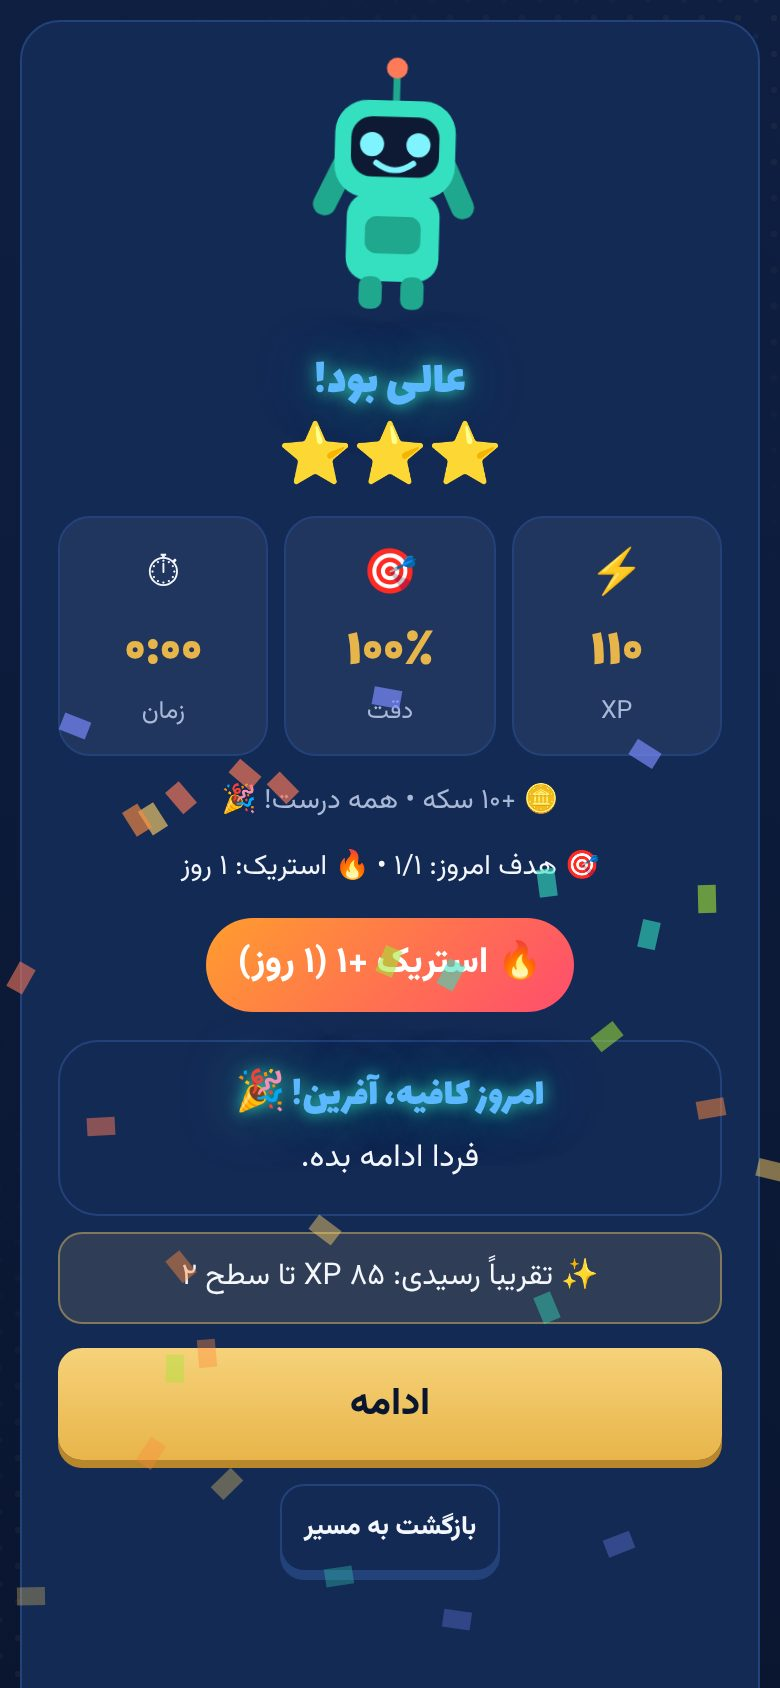
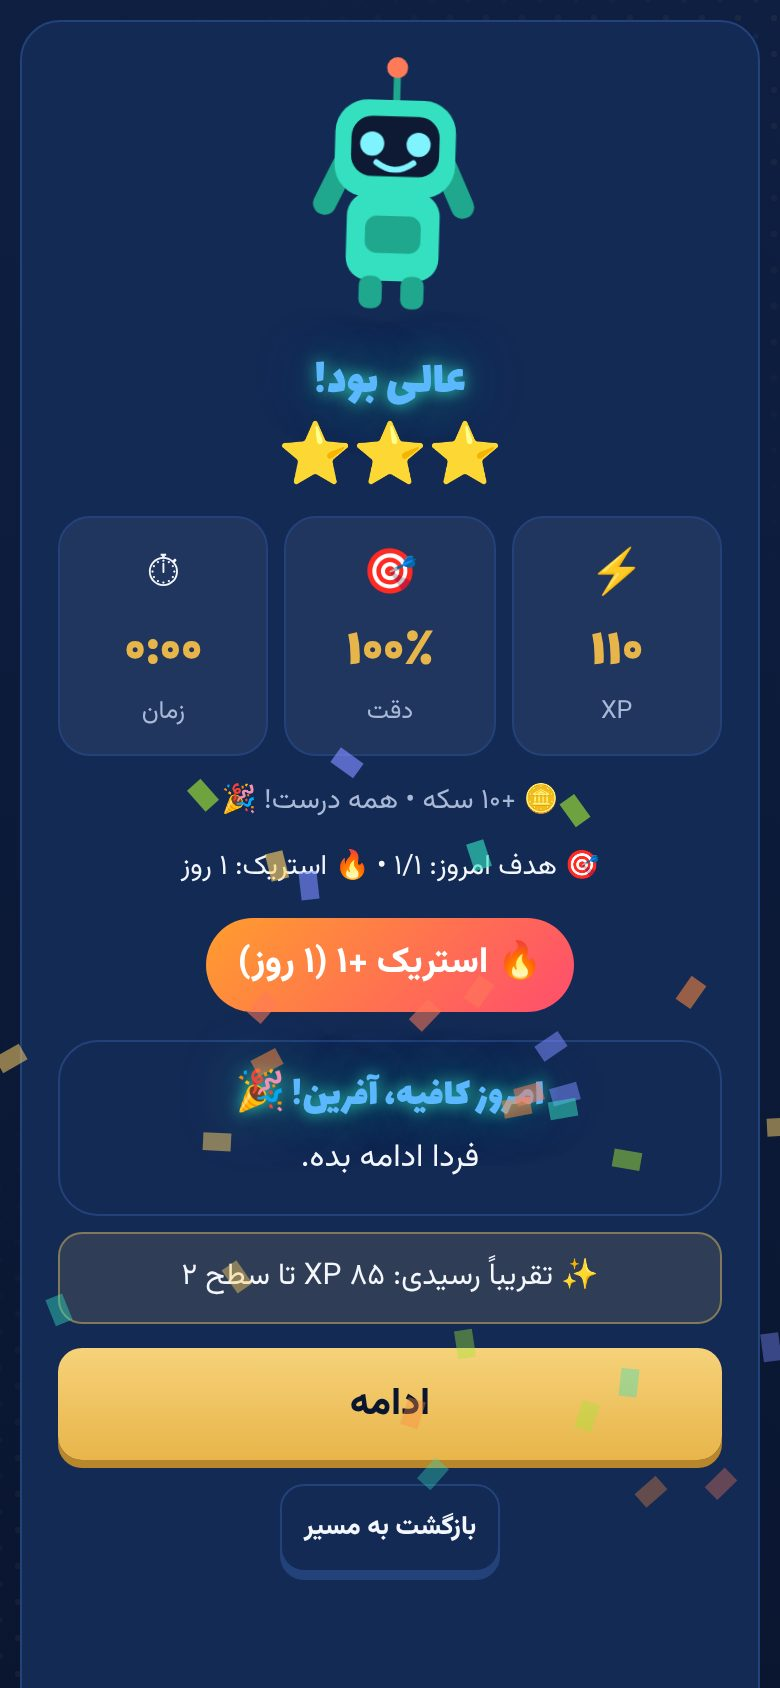
riazi-land: ui P0-4 — empty 5th option, toast above nav, full-height lesson card, shop emoji (grapheme split), credits moved to profile «درباره», nav tab, uniform radii
Claude-Session: https://claude.ai/code/session_01VDPptadfr94w4emVaDL2Bd

diff --git a/riazi-land/index.html b/riazi-land/index.html
@@ -2661,12 +2661,12 @@ r.insertAdjacentHTML('afterbegin','<div class="stk"><span>🧮</span><span>🚀<
 #bnav button i{font-style:normal;font-size:22px;line-height:1.2}
 #bnav button[aria-current=page]{color:var(--cy);background:rgba(52,224,192,.12);box-shadow:inset 0 -3px 0 var(--cy)}
 body[data-scr="reg"] #bnav,body[data-scr="game"] #bnav,body[data-scr="run"] #bnav,body[data-scr="gm"] #bnav,body[data-scr="sg"] #bnav{display:none}
-#app{padding-bottom:calc(84px + env(safe-area-inset-bottom))}
-#toast{bottom:calc(84px + env(safe-area-inset-bottom))}
+#app{padding-bottom:calc(var(--nav-h,64px) + 24px)}
+#toast{bottom:calc(var(--nav-h,64px) + 12px)}
 body[data-scr="pq"] #toast{bottom:auto;top:calc(12px + env(safe-area-inset-top));transform:translate(-50%,-40px)}
 body[data-scr="pq"] #toast.on{transform:translate(-50%,0)}
 #btnSup,#btnTch,#hubShop{display:none!important}
-#dev{display:none}body[data-scr="reg"] #dev,body[data-scr="prof"] #dev{display:block}
+#dev{display:none!important}
 #pathBox{padding-bottom:24px}
 .pbn{display:flex;align-items:center;gap:10px;padding:10px 14px;border-radius:16px;color:#fff;background:linear-gradient(120deg,hsl(var(--h) 60% 32%),hsl(calc(var(--h) + 40) 55% 22%));border:1px solid hsl(var(--h) 70% 55%/.6)}
 .pbn b{font-family:var(--fh);font-weight:400;font-size:18px;white-space:nowrap}.pbn span{flex:1;font-size:15px}.pbn i{font-style:normal}
@@ -2823,6 +2823,16 @@ body:before{content:"";position:fixed;inset:0;pointer-events:none;z-index:0;opac
 .frac>span:last-child{padding:.05em .2em 0}
 .frac-s{position:absolute;width:1px;height:1px;overflow:hidden;clip:rect(0 0 0 0);white-space:nowrap}
 .opt .m{margin:0}
+/* ===== UI P0-4: باگهای ظاهری ===== */
+#bnav{padding:6px 4px max(6px,env(safe-area-inset-bottom))}
+#bnav button{border-radius:var(--r-sm)}
+#obBox .msg{min-height:44px;background:none;border:0;padding:6px 0;margin-top:6px}
+#pqBox{min-height:calc(100vh - 28px);min-height:calc(100dvh - 28px)}
+#s-reg[data-v="place"] #obBox,#s-reg[data-v="result"] #obBox{min-height:calc(100vh - 28px);min-height:calc(100dvh - 28px)}
+.opt,#pqBox .opt{border-radius:var(--r-sm)}
+.mission{border-radius:var(--r-lg)}
+.about{margin-top:12px;text-align:center}.about summary{min-height:44px;display:flex;align-items:center;justify-content:center;cursor:pointer;color:var(--c-text-2);font-weight:700}
+.about p{margin:4px 0 8px;font-size:var(--fs-small,13px);color:var(--c-text-2);line-height:1.9}.about b{color:var(--c-gold)}
 @media(min-width:900px){#app{max-width:760px}.lsn-bar{max-width:760px}#bnav button{max-width:170px}}
 @media (prefers-reduced-motion:reduce){*,*:before,*:after{animation-duration:.01ms!important;animation-iteration-count:1!important;transition-duration:.01ms!important;scroll-behavior:auto!important}}
 </style>
@@ -2844,6 +2854,8 @@ body:before{content:"";position:fixed;inset:0;pointer-events:none;z-index:0;opac
   function rec(g,i){const P=pd();const G=P.l[g]=P.l[g]||{};const r=G[i]=G[i]||{L:[],c:0};r.L=r.L||[];return r}
   function dayXp(){const P=pd(),d=dayN();if(P.xp.d!==d)P.xp={d,b:xpOf(),v:0};return Math.max(0,xpOf()-P.xp.b)}
   function touchStreak(){const d=dayN(),s=S.stk||{n:0,d:0};if(s.d!==d)S.stk={n:s.d===d-1?s.n+1:1,d};}
+  /* ارتفاع واقعی نوار پایین → --nav-h (برای toast و فاصلهٔ پایین صفحه) */
+  try{const nb=document.getElementById('bnav'),setH=()=>document.documentElement.style.setProperty('--nav-h',(nb.offsetHeight||0)+'px');if(nb){setH();if(window.ResizeObserver)new ResizeObserver(setH).observe(nb);addEventListener('resize',setH)}}catch(e){}
   window.v9Hdr=function(){if(!USER)return;
     {const k=rbKey();if(k!==hAvKey){hAvKey=k;$('#hAv').innerHTML=rbSvg(false)}}
     $('#hStk').textContent='🔥 '+fa(streakInit().n||0);$('#hCoin').textContent='🪙 '+fa(S.coins||0);{const n=todayLog().n,g=goalN();$('#hXp').textContent=n>=g?'✓ '+fa(g)+'/'+fa(g):'⚡ '+fa(n)+'/'+fa(g)}};
@@ -3503,7 +3515,8 @@ body:before{content:"";position:fixed;inset:0;pointer-events:none;z-index:0;opac
   /* ---- کلکسیون من: آیتمهای خریداریشده از هر دو سیستم قدیمی + فروشگاه تازه ---- */
   const V1T=[['اقیانوس','🌊','#0A1630','#E8B54A'],['غروب','🌇','#38203c','#ff8b62'],['جنگل','🌿','#12372d','#63d297'],['کهکشانی','🌌','#171435','#b18cff'],['آبنبات','🍬','#472344','#ff83ca'],['طلایی','👑','#382e18','#ffd166'],['یخی','❄','#193344','#8ee5ff'],['آتش','🔥','#421e20','#ff7058'],['مینیمال','☁','#253044','#d2d9e8'],['شفق','🌈','#20254c','#60e1cb']];
   const V1C=[['🐉','اژدهای آتشین','افسانهای'],['🛡','شوالیهٔ طلایی','افسانهای'],['🐼','پاندای جنگجو','کمیاب'],['🧙','جادوگر بنفش','کمیاب'],['🥷','نینجا','کمیاب'],['🚀','فضانورد','معمولی'],['🦁','شیر طلایی','افسانهای'],['🦊','روباه جادویی','کمیاب'],['🦄','تکشاخ ستارهای','افسانهای'],['🤖','ربات نابغه','معمولی'],['🐢','لاکپشت تیزهوش','معمولی'],['🦉','جغد دانا','معمولی']];
-  const V1G=[['avatar','آواتار','😀🐸🐱🐯🐻🦋🐙🐳🦖🐨🦝🐰🦊🐼🦁🐲👾🧙🦄🤖🐢'.split(''),25],['frame','قاب','🟣🔵🟢🟠🔴🟡💠💎🌟✨🌈🪙🎀🌸🌙⚡🔥❄🍀👑'.split(''),20],['theme','تم','',10],['crosshair','نشانهگیر','🎯✳❇🔆🔱💫☄✴🌀🔮🌟⚡💠🪄🎲🧿🌈❄🔥🍀'.split(''),20],['decor','تزئین','🎈🎉🎊🎁🏅🏆⭐🌻🌺🍀🪴🎨🎵🎼📚🧩🪁🪄🧸🪙'.split(''),25]];
+  const GS=t=>{try{return[...new Intl.Segmenter(undefined,{granularity:'grapheme'}).segment(t)].map(x=>x.segment)}catch(e){return Array.from(t)}}; /* ایموجی را درست تکه میکند (جلوگیری از ❓ نیمهٔ جفت جایگزین) */
+  const V1G=[['avatar','آواتار',GS('😀🐸🐱🐯🐻🦋🐙🐳🦖🐨🦝🐰🦊🐼🦁🐲👾🧙🦄🤖🐢'),25],['frame','قاب',GS('🟣🔵🟢🟠🔴🟡💠💎🌟✨🌈🪙🎀🌸🌙⚡🔥❄🍀👑'),20],['theme','تم','',10],['crosshair','نشانهگیر',GS('🎯✳❇🔆🔱💫☄✴🌀🔮🌟⚡💠🪄🎲🧿🌈❄🔥🍀'),20],['decor','تزئین',GS('🎈🎉🎊🎁🏅🏆⭐🌻🌺🍀🪴🎨🎵🎼📚🧩🪁🪄🧸🪙'),25]];
   /* ایموجیای که در این دستگاه رندر نمیشود (توفو) با آیکون دستهٔ خودش جایگزین میشود */
   const V1ICON={avatar:'🙂',frame:'🖼',theme:'🎨',crosshair:'🎯',decor:'🎀'},GL={};
   function glyph(ch,fb){
@@ -3678,7 +3691,8 @@ body:before{content:"";position:fixed;inset:0;pointer-events:none;z-index:0;opac
     ${goalHtml()}${calHtml()}
     ${colHtml()}
     <div class="card" style="margin-top:12px"><h3 style="font-size:20px;color:var(--ye)">بیشتر</h3><div class="pmore" id="pMore">${MORE.map(([id,i,t])=>`<button type="button" data-more="${id}" aria-label="${t}"><i aria-hidden="true">${i}</i><span>${t}</span></button>`).join('')}</div>
-    <div class="row" style="justify-content:center;margin-top:8px"><button type="button" class="btn btn-secondary gh" id="btnSound" style="min-height:44px">${SFX.muted?'🔇 صدا: خاموش':'🔊 صدا: روشن'}</button><button type="button" class="btn btn-secondary gh" id="btnSup2" style="min-height:44px">🛟 پشتیبانی</button><button type="button" class="btn btn-secondary gh" id="btnOut" style="min-height:44px">🚪 خروج از حساب</button></div></div>`;
+    <div class="row" style="justify-content:center;margin-top:8px"><button type="button" class="btn btn-secondary gh" id="btnSound" style="min-height:44px">${SFX.muted?'🔇 صدا: خاموش':'🔊 صدا: روشن'}</button><button type="button" class="btn btn-secondary gh" id="btnSup2" style="min-height:44px">🛟 پشتیبانی</button><button type="button" class="btn btn-secondary gh" id="btnOut" style="min-height:44px">🚪 خروج از حساب</button></div>
+    <details class="about" id="pAbout"><summary>درباره</summary><p>${$('#dev').innerHTML}</p></details></div>`;
     $$('#pMore [data-more]').forEach(b=>b.onclick=()=>{SFX.init();SFX.click();const id=b.dataset.more;
       if(id==='report'&&!S.quiz){toast('اول خودآزمایی و پرسشنامه را تمام کن 📝');return}go(id)});
     bindGoal();bindCal();bindCol();

diff --git a/riazi-land/tests/smoke.js b/riazi-land/tests/smoke.js
@@ -131,11 +131,11 @@ T('floating 🧑🏫/🛟 buttons never cover the UI (hidden; reachable from 
 T('developer credit text appears once', async ({ browser }) => {
   const { page, context } = await open(browser);
   const reg = await page.evaluate(() => document.body.innerText);
-  assert(count(reg, 'توسعهدهنده') <= 1, 'dup credit on register: ' + count(reg, 'توسعهدهنده'));
+  eq(count(reg, 'توسعهدهنده'), 0, 'credit must not be on the welcome screen');
   await register(page);
   await page.evaluate(() => go('prof'));
   const home = await page.evaluate(() => document.body.innerText);
-  eq(count(home, 'توسعهدهنده'), 1, 'credit count on profile');
+  assert(count(home, 'توسعهدهنده') === 0, 'credit must be hidden until «درباره» is opened'); await page.click('#pAbout summary'); eq(count(await page.evaluate(() => document.body.innerText), 'توسعهدهنده'), 1, 'credit count on profile (درباره)');
   const html = fs.readFileSync(path.join(ROOT, 'index.html'), 'utf8');
   eq(count(html, '<footer'), 1, '<footer> tags in source');
   await context.close();
